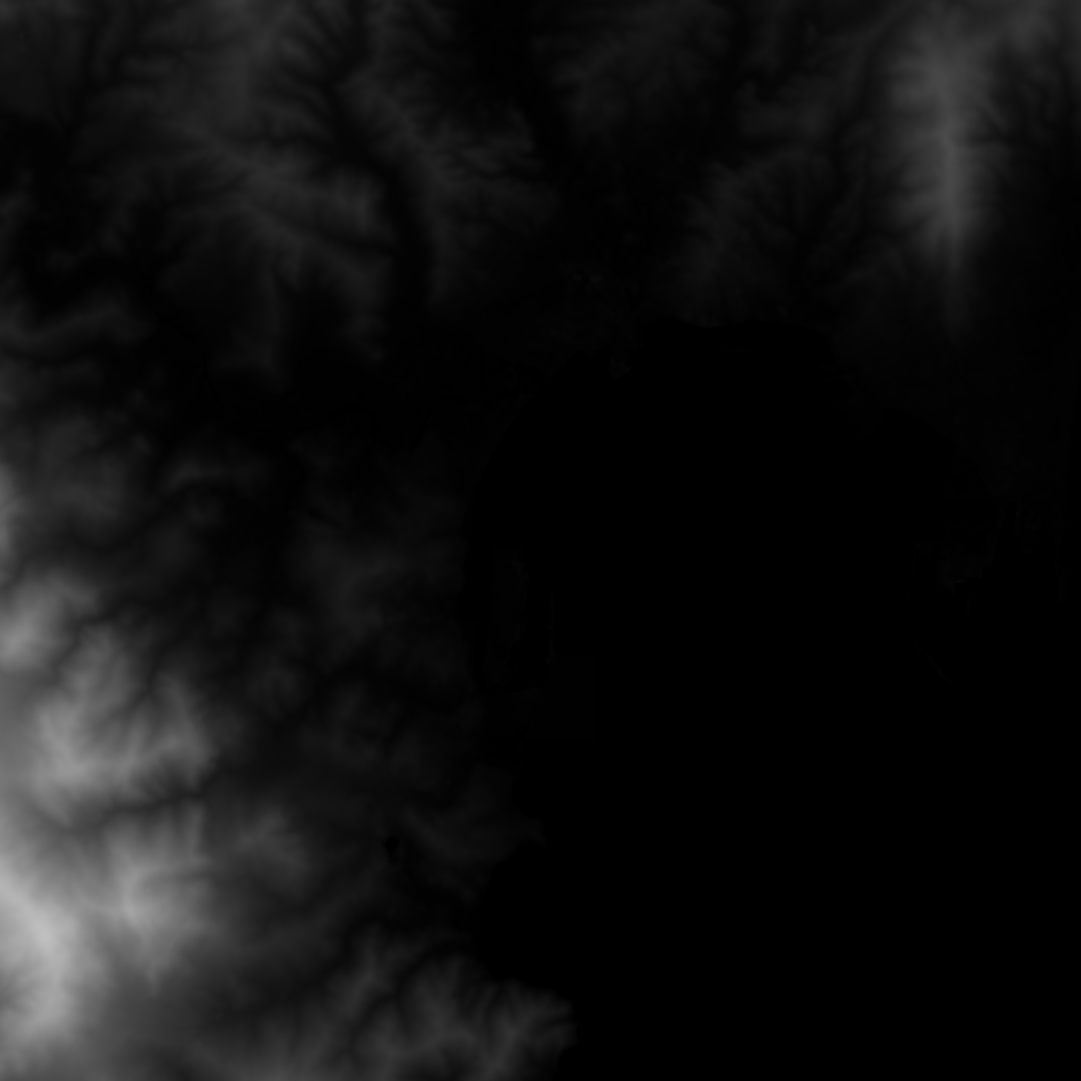
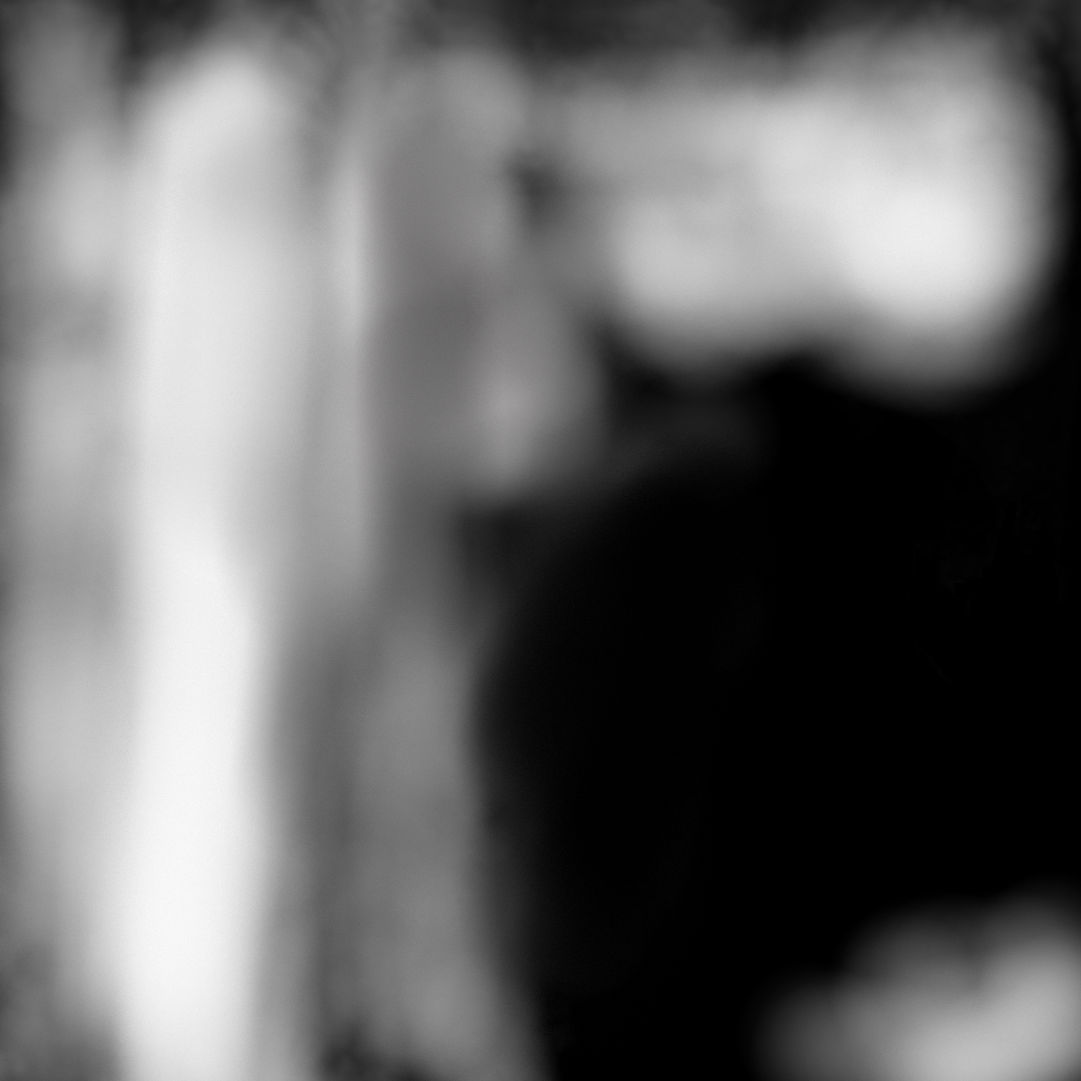
new ground

diff --git a/C/js/main-script.js b/C/js/main-script.js
@@ -644,7 +644,7 @@ function createGround() {
            //color: blue,
            map: groundRenderTarget.texture,
            displacementMap: texture,
-           displacementScale: 80,
+           displacementScale: 25,
            side: THREE.DoubleSide
     });
 
